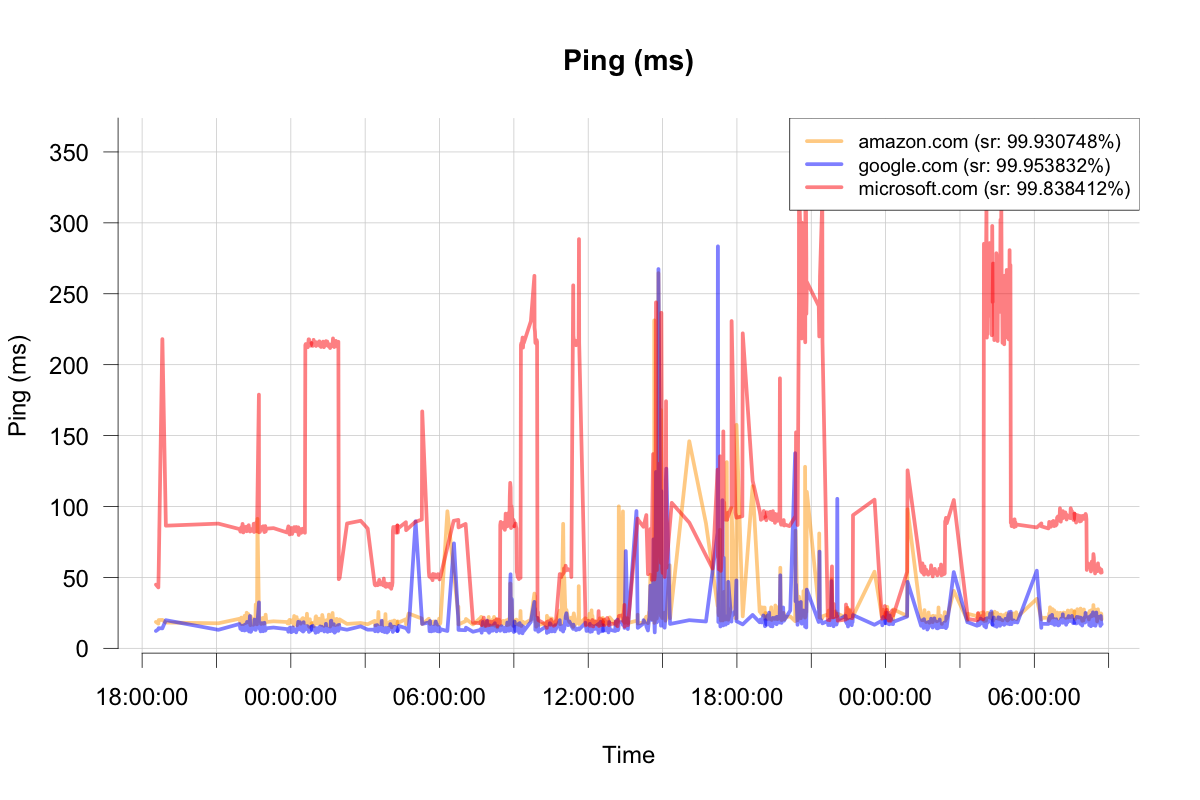
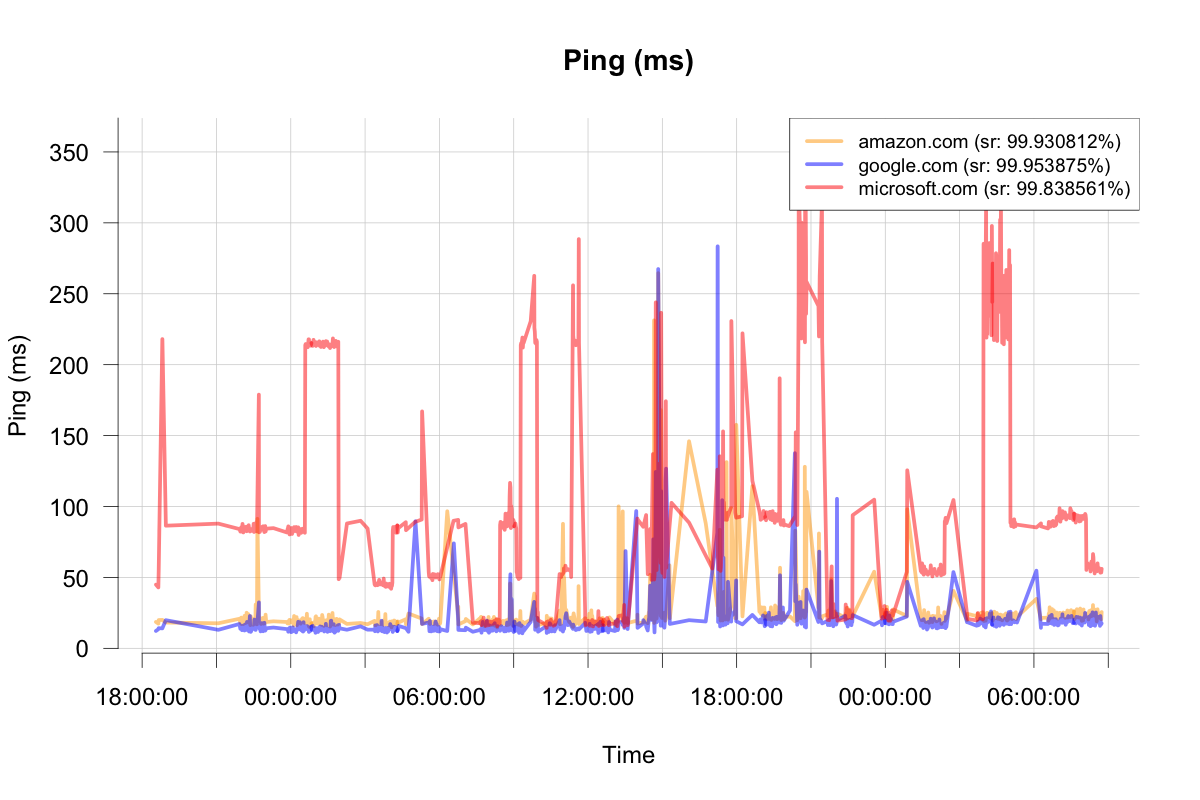
update netmon

diff --git a/netmon/index.html b/netmon/index.html
@@ -1,10 +1,7 @@
-Network Monitor - last updated Sun Oct 20 08:43:10 EDT 2024
+Network Monitor - last updated Sun Oct 20 08:44:10 EDT 2024
 ![Ping](netmon.png)
 ```
 time                 site           snd  rec  min_ms  avg_ms  max_ms  sd
-2024-10-20 08:24:00  google.com     4    4    20.563  22.639  28.008  3.105
-2024-10-20 08:24:03  amazon.com     4    4    16.717  23.195  27.197  3.936
-2024-10-20 08:24:06  microsoft.com  4    4    54.154  64.193  83.349  11.711
 2024-10-20 08:25:00  google.com     4    4    14.558  19.462  21.863  2.876
 2024-10-20 08:25:04  amazon.com     4    4    20.971  23.848  28.023  2.858
 2024-10-20 08:25:07  microsoft.com  4    4    49.334  55.909  60.629  4.671
@@ -62,6 +59,9 @@ time                 site           snd  rec  min_ms  avg_ms  max_ms  sd
 2024-10-20 08:43:00  google.com     4    4    15.149  17.002  18.953  1.777
 2024-10-20 08:43:04  amazon.com     4    4    16.311  20.494  23.227  2.746
 2024-10-20 08:43:07  microsoft.com  4    4    49.545  53.491  58.513  3.274
+2024-10-20 08:44:00  google.com     4    4    16.173  17.617  19.830  1.491
+2024-10-20 08:44:03  amazon.com     4    4    20.246  25.576  30.769  4.897
+2024-10-20 08:44:07  microsoft.com  4    4    52.774  56.060  60.971  3.010
 ```
 
 <!-- This will refresh the page every 60 seconds -->
